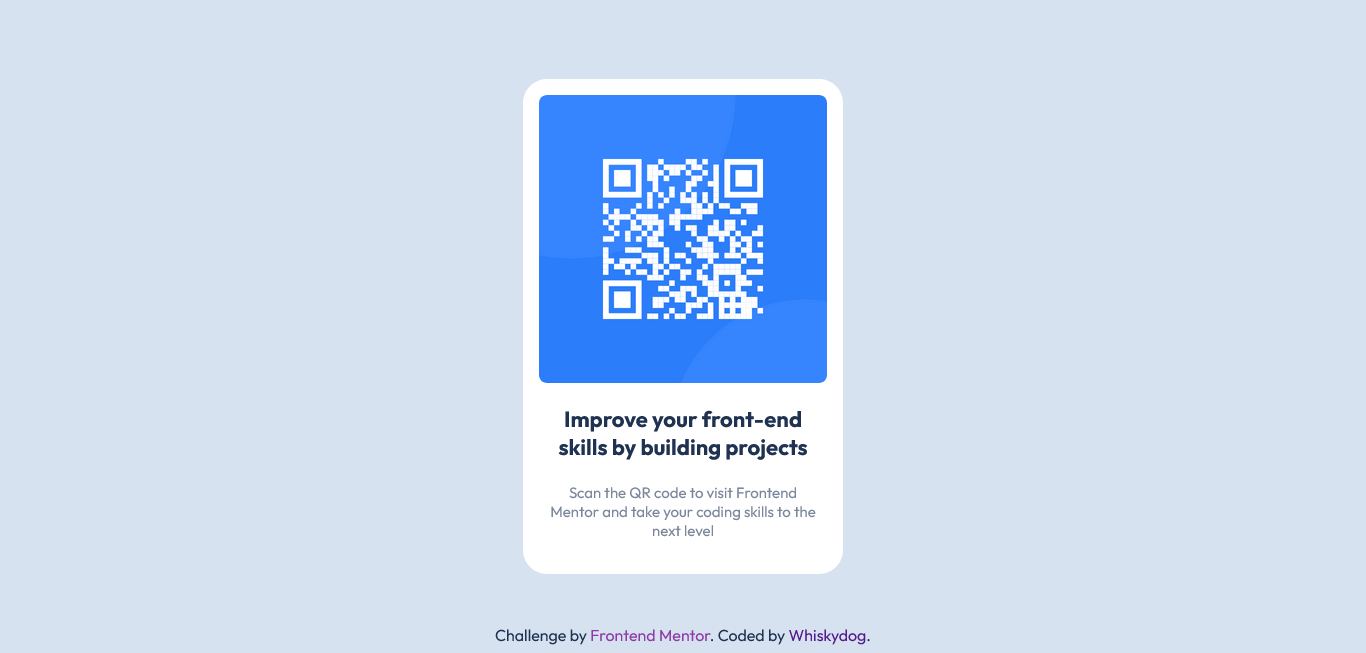
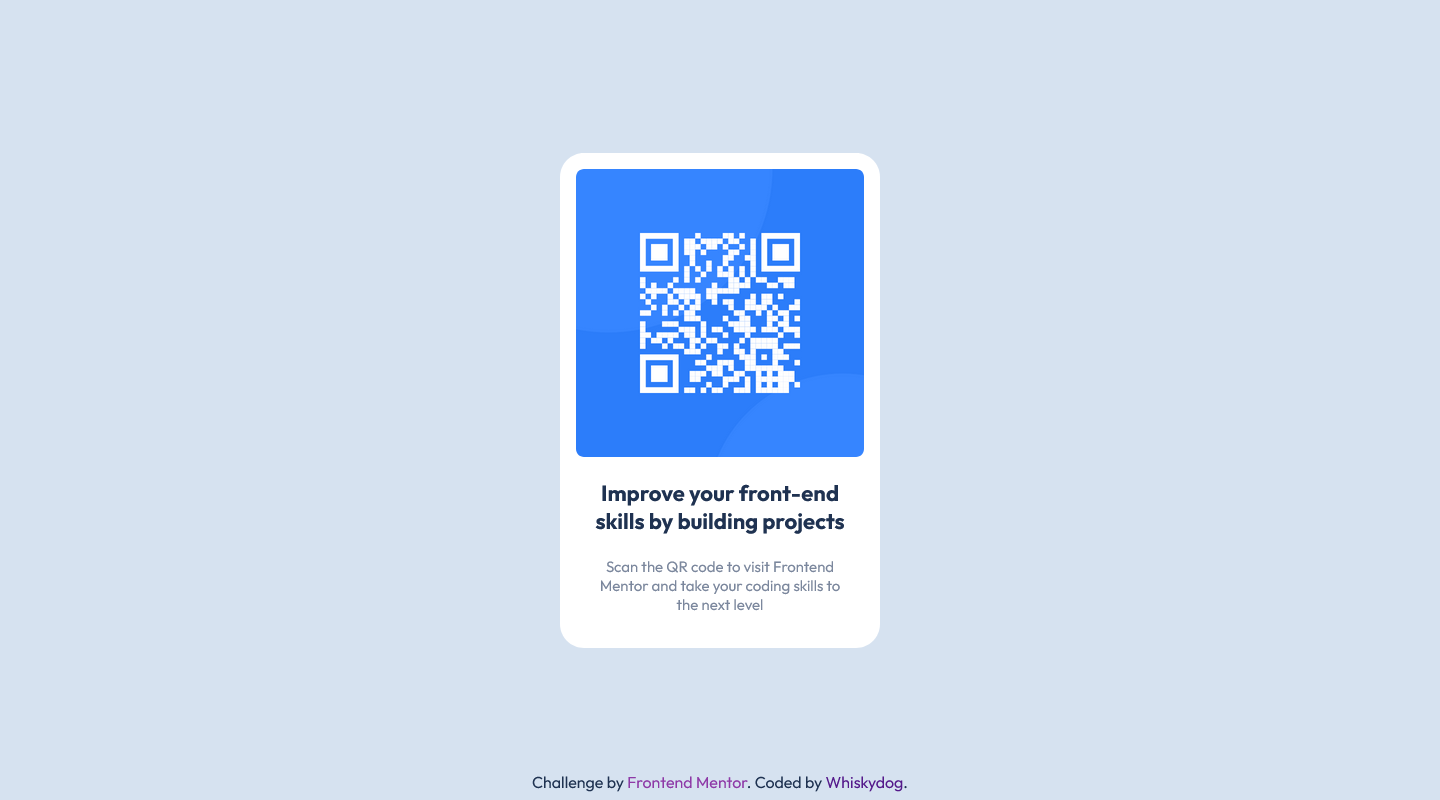
Refactor CSS, update screenshot

Changed region(s): [[0.369, 0.1225, 0.6149, 0.8882], [0.369, 0.9495, 0.6457, 1.0]]

diff --git a/index.css b/index.css
@@ -34,7 +34,7 @@ body {
 .container p {
   color: hsl(220, 15%, 55%);
   font-size: 15px;
-  margin: 0 0.75em;
+  margin: 0 0.8em;
   margin-bottom: 1.2em;
 }
 
